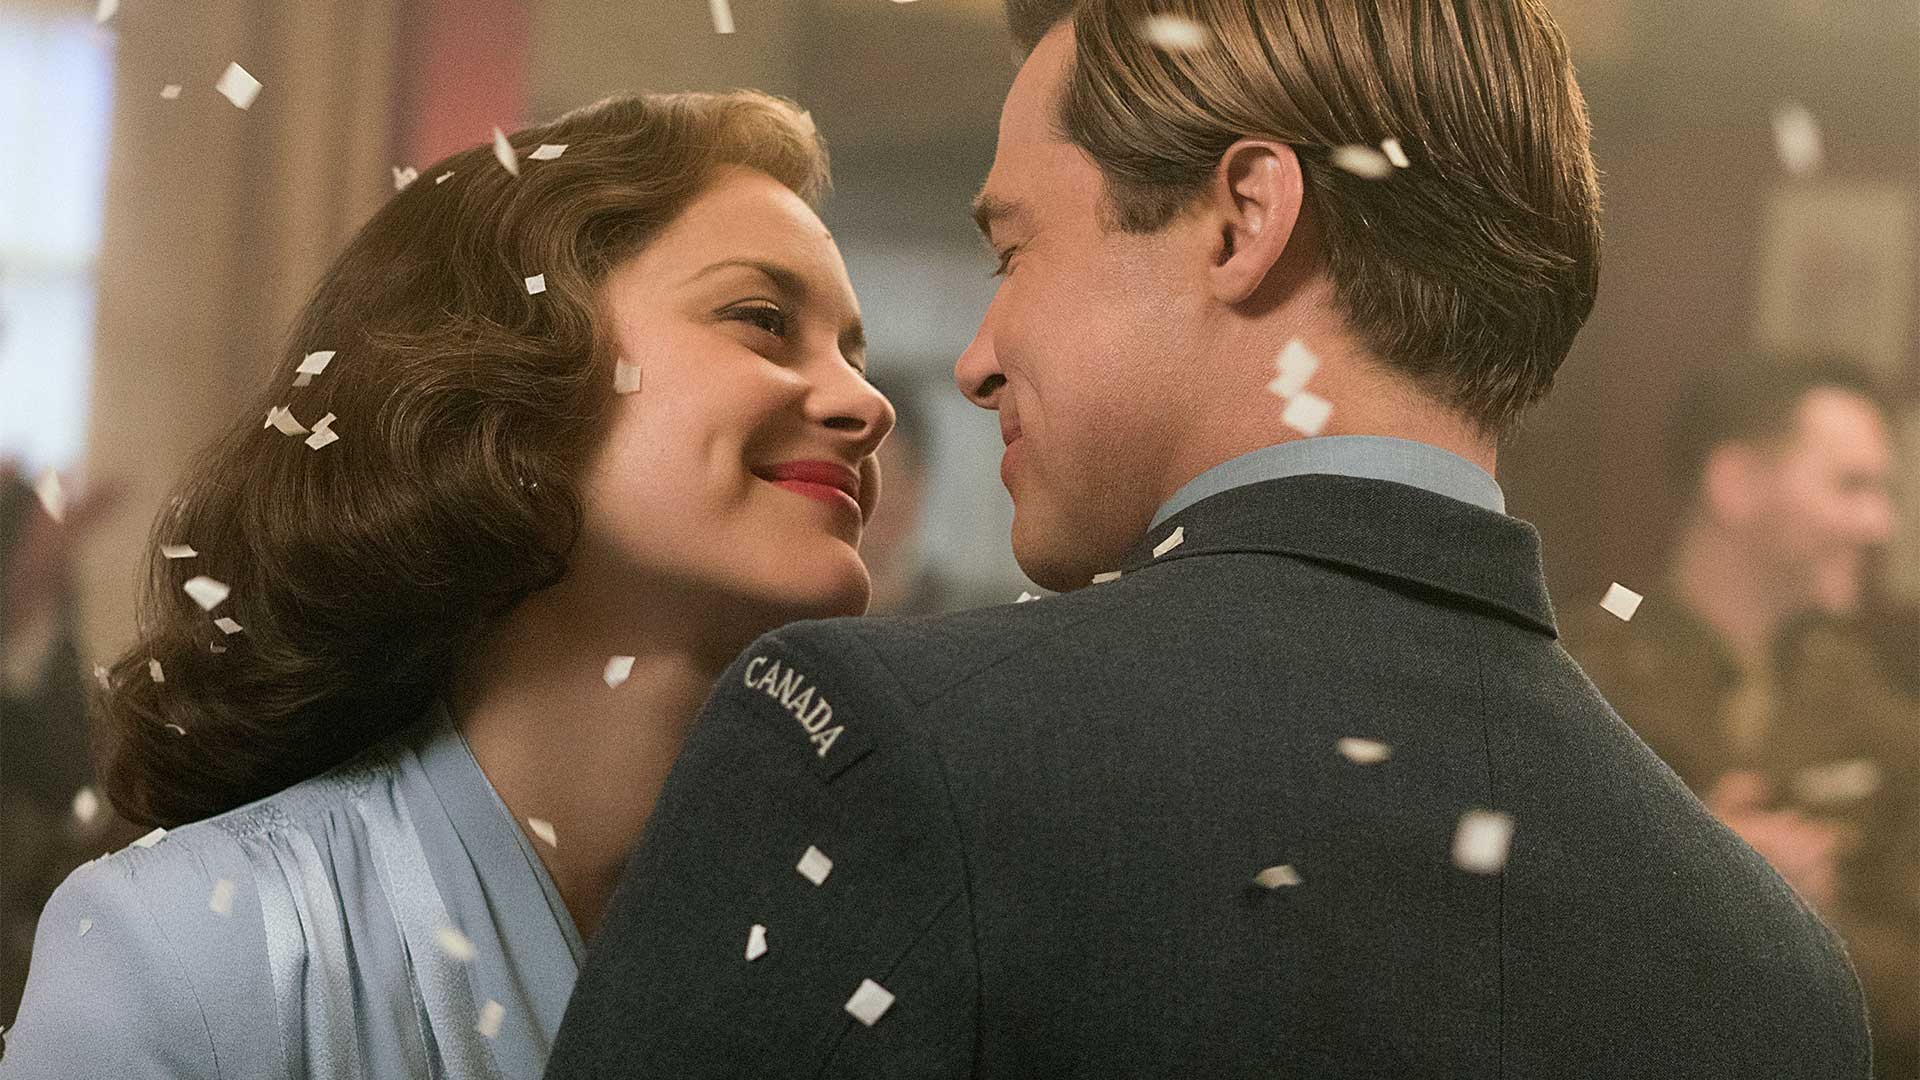
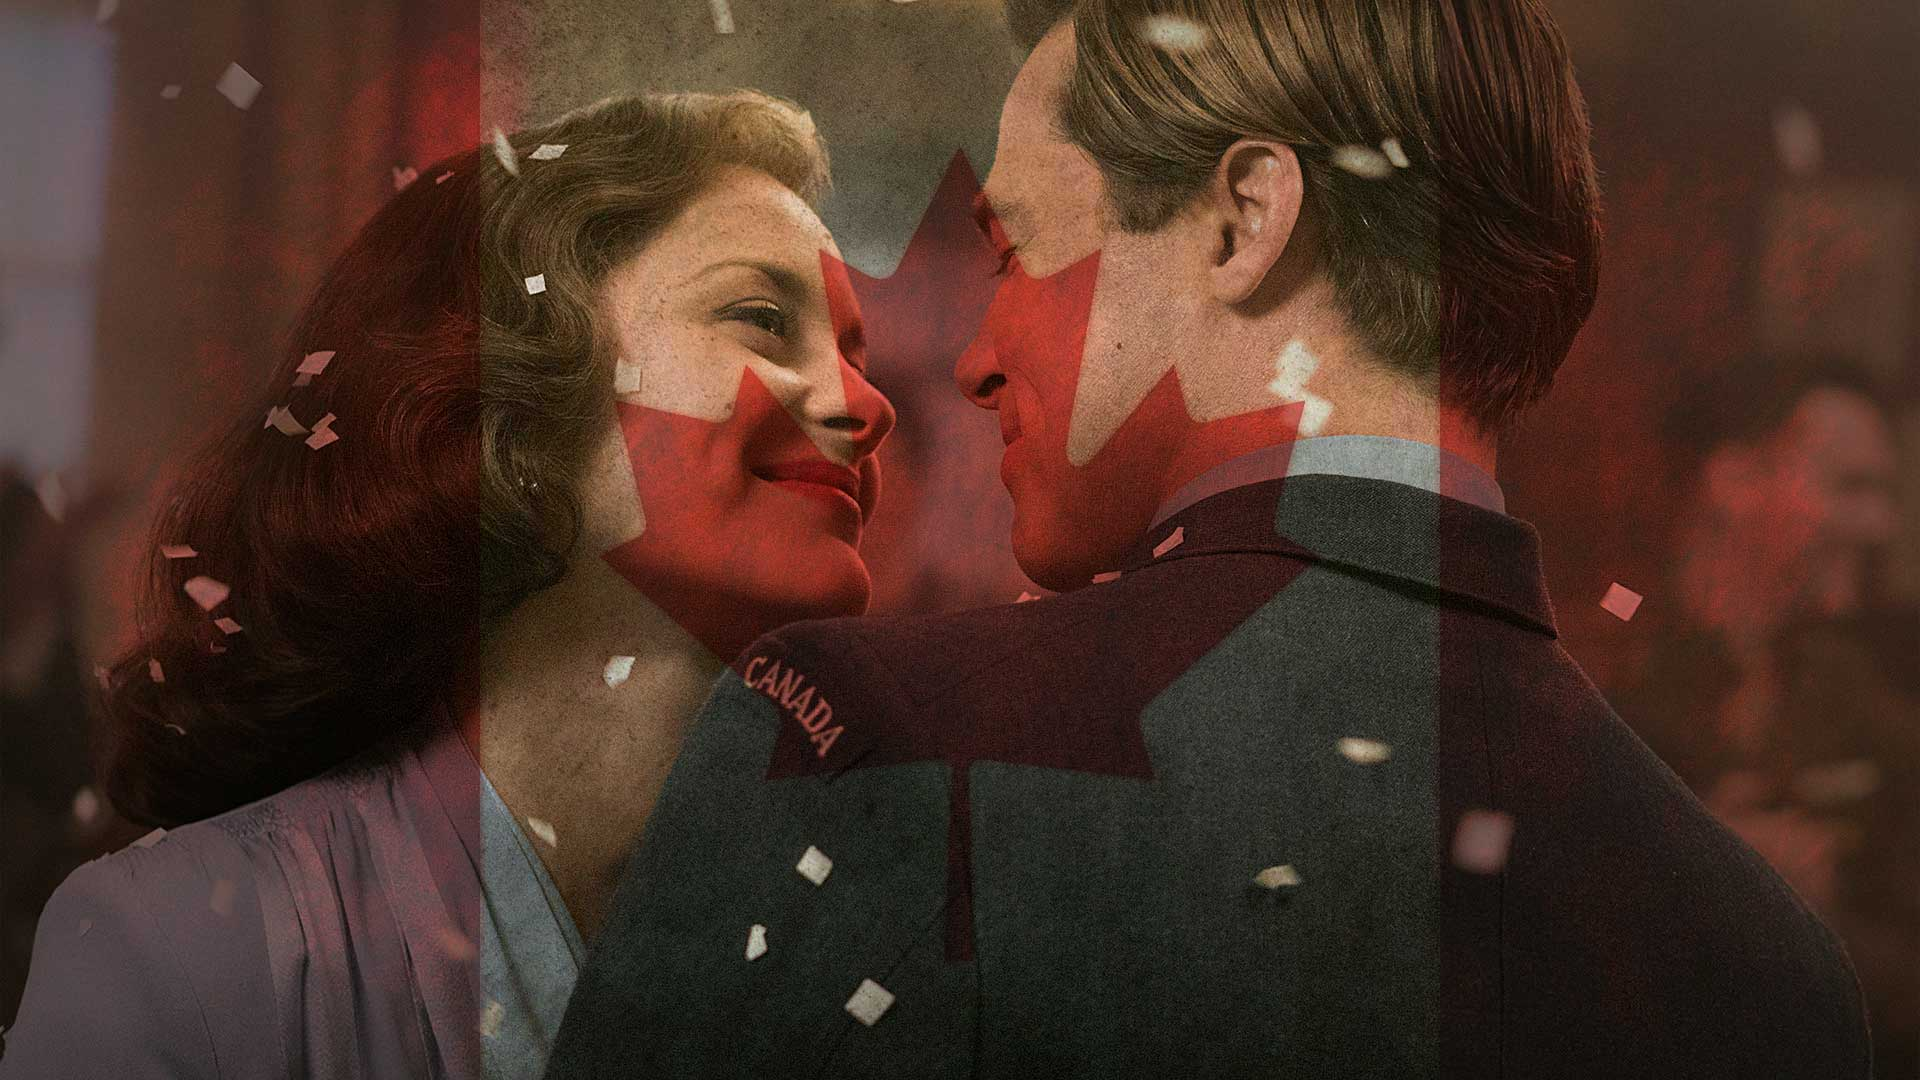
Review

diff --git a/_posts/reviews/2017-06-30-baby-driver.md b/_posts/reviews/2017-06-30-baby-driver.md
@@ -1,0 +1,35 @@
+---
+published: true
+date: 2017-06-30 11:30:00
+imdb: tt3890160
+image: baby-driver.jpg
+author: timm
+stars: 3
+excerpt: ""
+addressee: "Edgar Wright"
+position: "Writer"
+split_name: true
+layout: review
+categories: 
+  - reviews
+  - current-releases
+title: "Baby Driver"
+comments: true
+tags: [action,Edgar Wright,comedy,cars]
+---
+
+_Baby Driver_ is a close-to-perfect example of a genre exercise. It’s so intricately constructed and executed, so seamlessly plotted and scored that it almost obscures the fact that it’s a film that’s utterly and completely empty of any kind of emotional calories. A seven course meal consisting entirely of different coloured cotton candy.
+
+Make no mistake though, this is some friggin’ delicious cotton candy.
+
+With _Baby Driver_ you’ve reached an apex of sorts. All of your previous films, from _Shaun of the Dead_ through _Scott Pilgrim vs the World_ and [_The World’s End_](http://www.dearcastandcrew.com/content/2013/8/15/the-worlds-end.html), while unquestionably clever and engaging, were also uneven and overlong. _Baby Driver,_ on the other hand_,_ is a flawless distillation of those previous works, without any of the impurities.
+
+_Baby Driver_’s plotting is lean and intricate. The setting where you place Baby (the film’s titular protagonist, played with a latter-day-Michael-Cera-like-intensity by Ansel Elgort) is both familiar and exotic. It is a world populated by character’s limned in thick black ink lines and composed entirely of easily identifiable tropes. _Baby Driver_ is what would happen if you put _Reservoir Dogs_, _Pulp Fiction_ and _True Romance_ in a blender and turned it on high. Depending on your nutritional requirements and preferences that results in either a delicious smoothie, or something that tastes like nothing in particular.
+
+Movies about movies—where fundamental aspects of the film’s grammar require the audience to refer to previous works—are a dead end creatively.  Even in a master technician’s hand they become so recursive that the only avenue left to them is one that goes exactly nowhere. And as more and more film maker’s build upon that established template the films themselves become pastiches of pastiches—like a third generation cover of The Knack’s _My Sharona._
+
+This is coming off maybe harsher than I intended. I like your work and have watched every one of your films more than once. I also really admired how well executed _Baby Driver_ was. From the non CGI laden driving sequences to the sharp, well delivered dialogue, solid performances (Jon Bernthal and Kevin Spacey specifically—both in supporting roles) and the clever integration of the soundtrack into the story, there a lot about this film that I admire.
+
+For me though, especially so soon after experiencing a genre bending, small masterpiece like [_It Comes At Night_](http://www.dearcastandcrew.com/content/2017/6/14/it-comes-at-night.html)_,_ watching your film reminded of why I’m so put off of Tarantino (and his adherents) these days. There is an underlying smugness, a nod and glance to the film literati, that suffuses the whole film. As a result, _Baby Driver_ ends up feeling vaguely exclusionary and somehow mean spirited. All the cleverness and fan service is too front and center, as if that is the point, instead of a nice add on. Contrast that with the kind of gut wrenching and deeply intimate undercurrent of _It Comes At Night_, which, while playing with genre conventions and audience expectations, has at its core something to say. Or, at least, an honest attempt to add something meaningful to the cultural conversation.
+
+I won’t remember a moment of _Baby Driver_ a week from now. Mostly because every emotional beat in the film is a third order recapitulation of a scene from some other film. Leaving the theatre I was left with the impression I had just watched a supremely well executed long form ad for Subaru, inasmuch as all the characters _are_ is just that—characters in a film. I guess I’ve lost the taste for watching archetypes expertly moved around a chess board to no other end than demonstrating how adroitly they can be manipulated.

diff --git a/_posts/features/2017-06-28-the-great-canadian-supercut.md b/_posts/features/2017-06-28-the-great-canadian-supercut.md
@@ -1,7 +1,7 @@
 ---
 layout: feature
 published: true
-date: 2017-06-26 22:00:00
+date: 2017-06-30 11:35:00
 image: the-great-canadian-supercut.jpg
 title: "The Great Canadian Supercut"
 addressee: "Canadians and Canada-Lovers"
